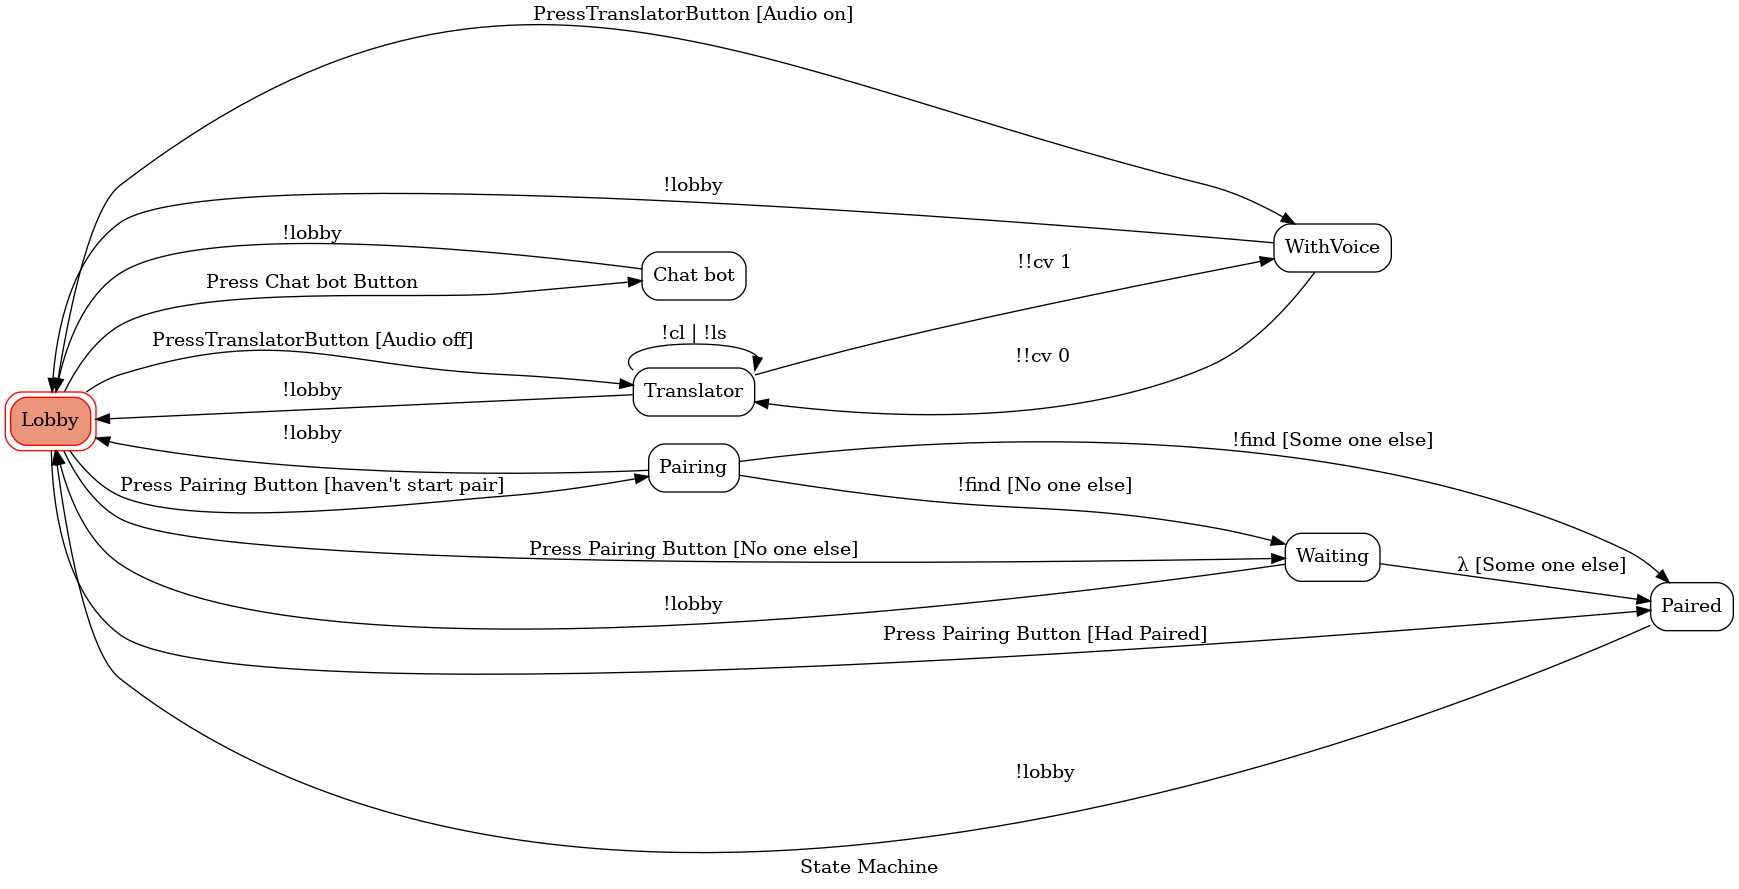
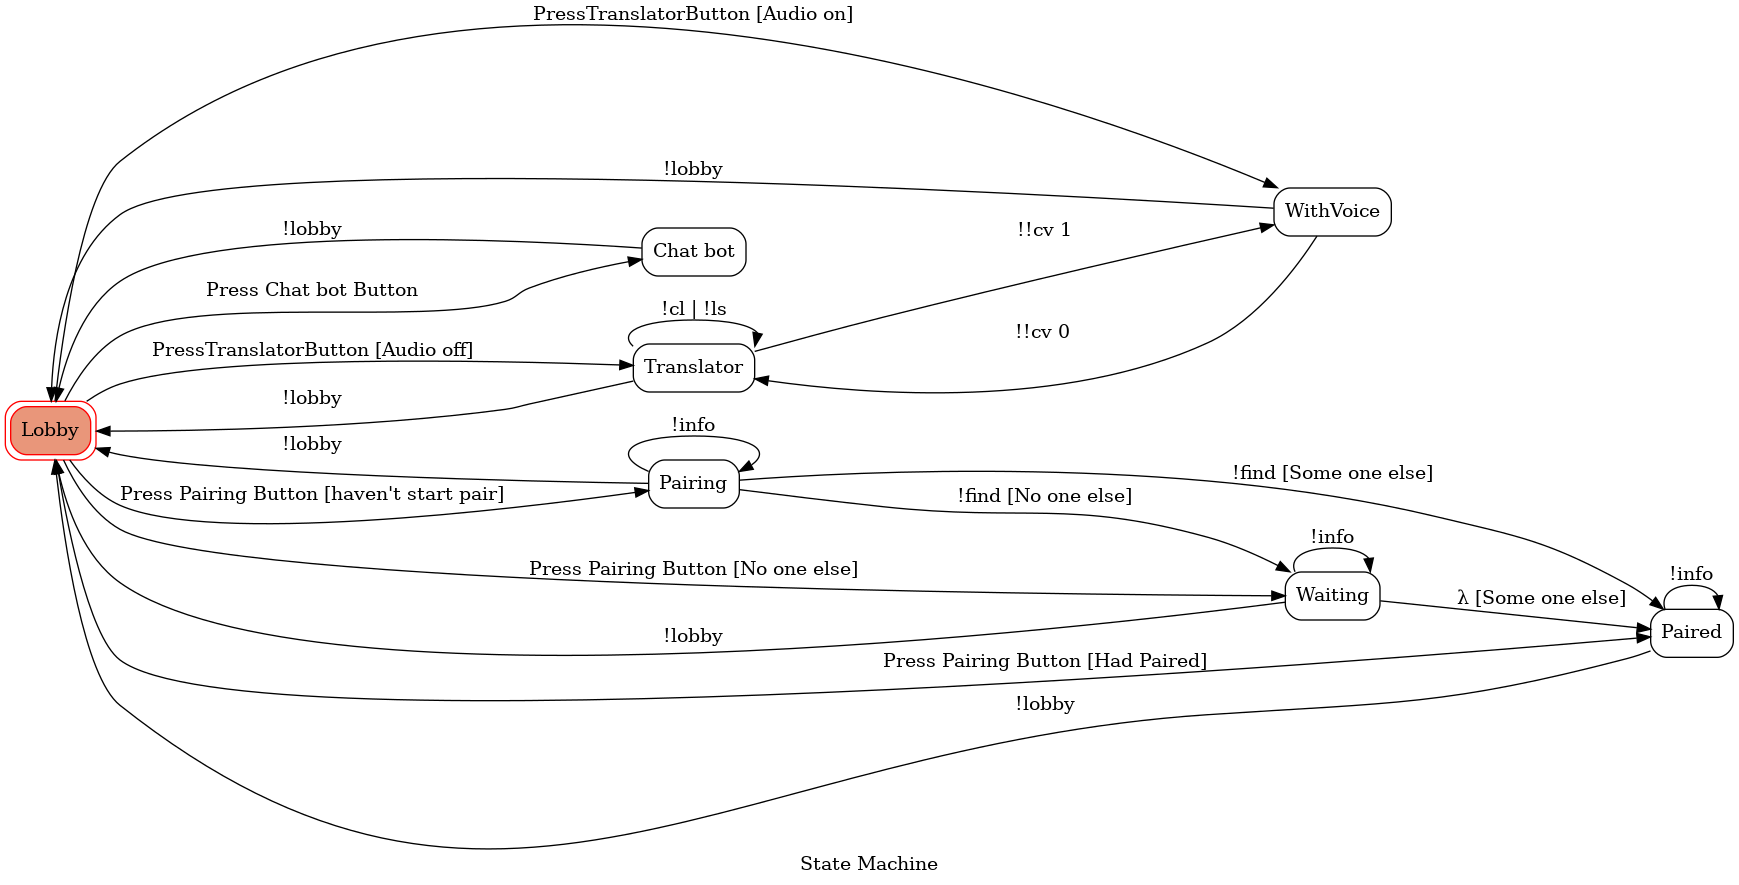
Finish README.md

diff --git a/fsm.py b/fsm.py
@@ -17,6 +17,9 @@ class FSMachine(object):
             { 'trigger': 'Press Pairing Button', 'source': 'Lobby', 'dest': 'Paired','conditions':'Had Paired' },
             { 'trigger': '!find', 'source': 'Pairing', 'dest': 'Paired','conditions':'Some one else' },
             { 'trigger': '!find', 'source': 'Pairing', 'dest': 'Waiting','conditions':'No one else' },
+            { 'trigger': '!info', 'source': 'Paired', 'dest': 'Paired' },
+            { 'trigger': '!info', 'source': 'Waiting', 'dest': 'Waiting' },
+            { 'trigger': '!info', 'source': 'Pairing', 'dest': 'Pairing' },
             { 'trigger': 'λ', 'source': 'Waiting', 'dest': 'Paired','conditions':'Some one else' },
             { 'trigger': '!lobby', 'source': 'Paired', 'dest': 'Lobby' },
             { 'trigger': '!lobby', 'source': 'Waiting', 'dest': 'Lobby' },
